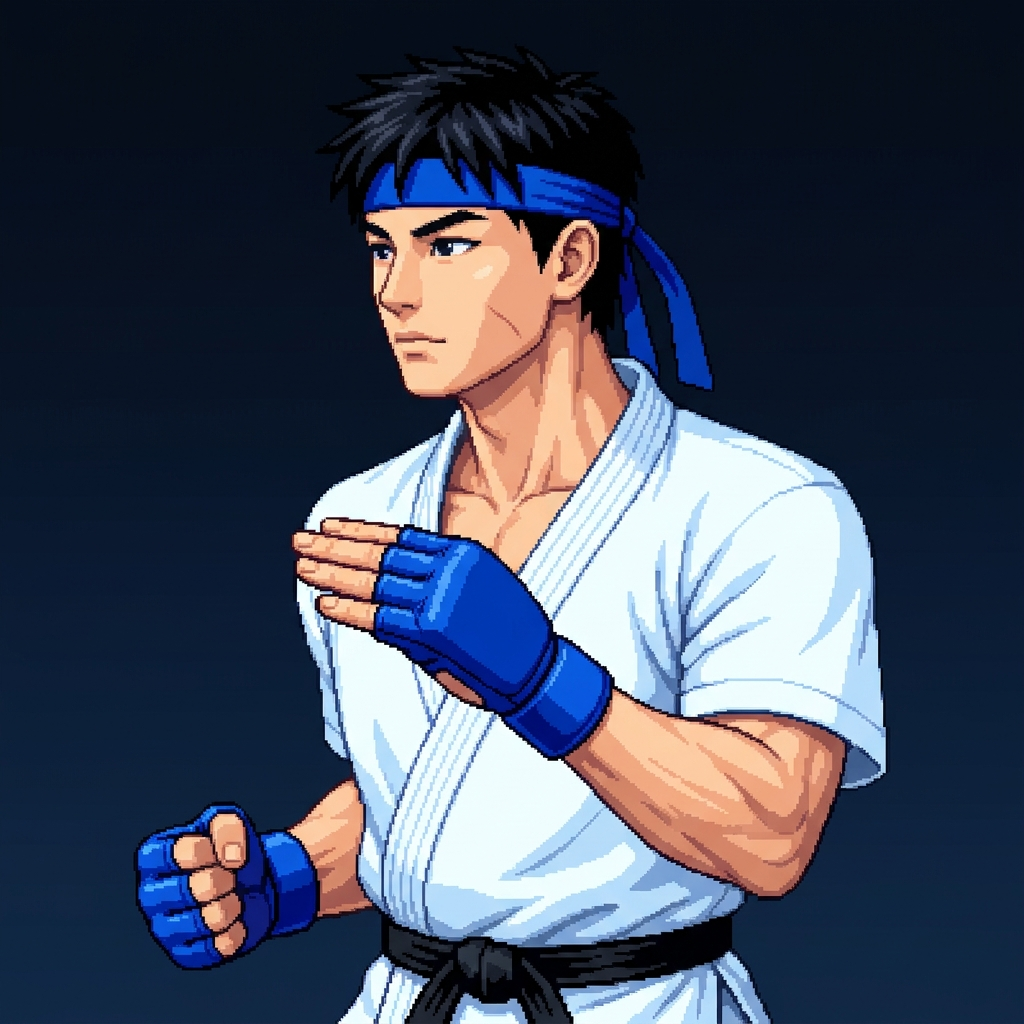
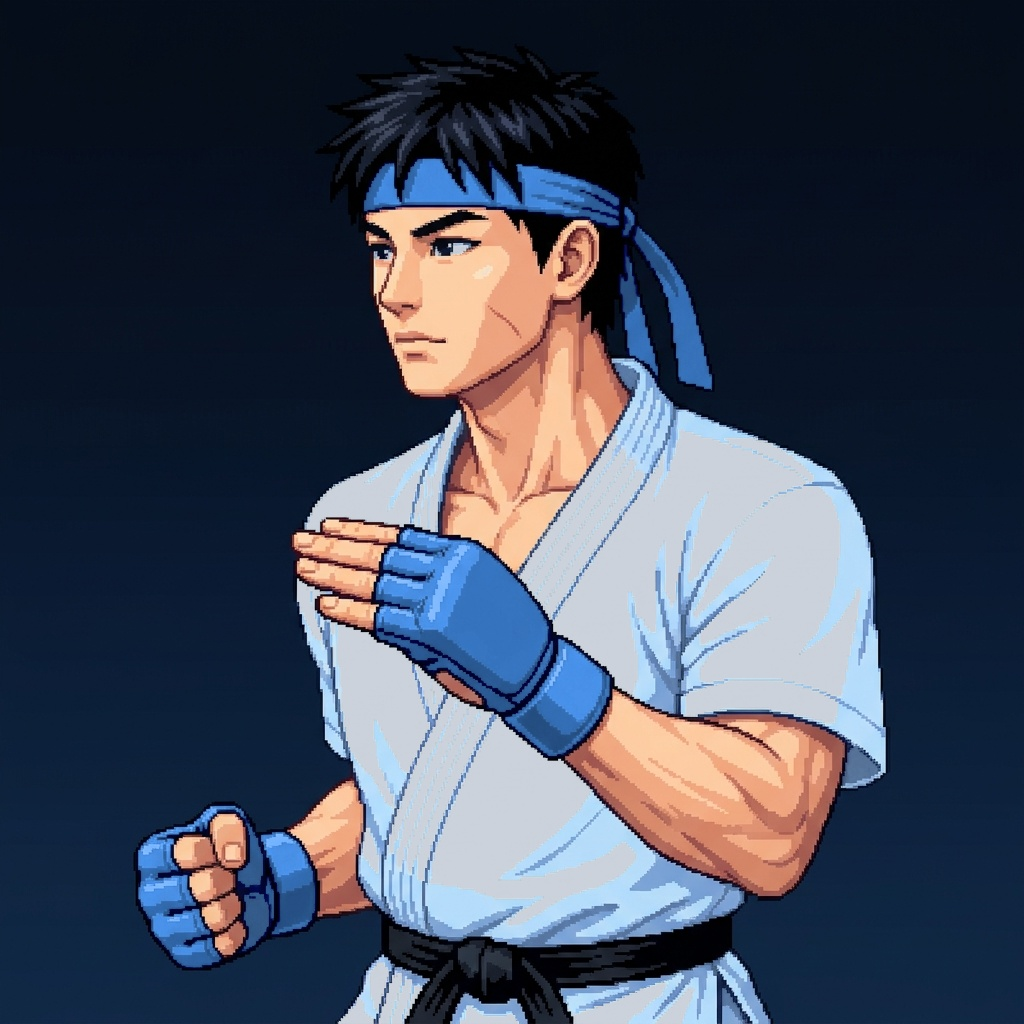
AKA : portrait de Kenji aligné sur la planche (kimono gris clair, bleu moyen)
Claude-Session: https://claude.ai/code/session_01EQeUA4S9W1Ly56y2xq16Yo

diff --git a/aka/tools/recolor_portrait_kenji.py b/aka/tools/recolor_portrait_kenji.py
@@ -1,0 +1,52 @@
+#!/usr/bin/env python3
+"""
+ recolor_portrait_kenji.py — Aligne le portrait de Kenji sur la planche : kimono gris clair,
+ bandeau et gants bleu moyen. Usage : python3 tools/recolor_portrait_kenji.py [entree.jpg] [sortie.jpg]
+ Masques doux (pas de halo sur les contours) ; peau, cheveux, ceinture et fond inchanges.
+"""
+import sys
+import numpy as np
+from PIL import Image
+
+src = sys.argv[1] if len(sys.argv) > 1 else 'assets_src/portraits/kenji.jpg'
+dst = sys.argv[2] if len(sys.argv) > 2 else src
+im = np.array(Image.open(src).convert('RGB')).astype(np.float64) / 255.0
+r, g, b = im[..., 0], im[..., 1], im[..., 2]
+mx, mn = im.max(2), im.min(2)
+d = mx - mn
+s = np.where(mx > 0, d / np.maximum(mx, 1e-6), 0.0)
+h = np.zeros_like(mx)
+m = d > 1e-6
+rm = m & (mx == r); gm = m & (mx == g) & ~rm; bm = m & ~rm & ~gm
+h[rm] = ((g - b)[rm] / d[rm]) % 6; h[gm] = (b - r)[gm] / d[gm] + 2; h[bm] = (r - g)[bm] / d[bm] + 4
+h = (h * 60.0) % 360.0
+
+def ramp(x, a, b_):            # 0 sous a, 1 au-dessus de b_ (lisse)
+    t = np.clip((x - a) / (b_ - a), 0, 1)
+    return t * t * (3 - 2 * t)
+
+# Kimono : peu sature et clair (le fond bleu nuit est sombre -> exclu par la luminosite)
+w_white = (1 - ramp(s, 0.10, 0.26)) * ramp(mx, 0.45, 0.60)
+# Bleu sature du bandeau/gants (teinte 200-260) -> bleu moyen, un peu moins sature
+w_blue = ramp(s, 0.45, 0.60) * ramp(mx, 0.30, 0.42) * (1 - ramp(abs(h - 228), 32, 48))
+
+def hsv2rgb(hh, ss, vv):
+    i = np.floor(hh * 6.0).astype(int) % 6
+    f = hh * 6.0 - np.floor(hh * 6.0)
+    p = vv * (1 - ss); q = vv * (1 - f * ss); t = vv * (1 - (1 - f) * ss)
+    out = np.zeros(hh.shape + (3,))
+    for k, (rr, gg, bb) in enumerate(((vv, t, p), (q, vv, p), (p, vv, t), (p, q, vv), (t, p, vv), (vv, p, q))):
+        sel = i == k
+        out[sel, 0] = rr[sel]; out[sel, 1] = gg[sel]; out[sel, 2] = bb[sel]
+    return out
+
+# gris clair legerement froid : valeur [0.45..1] -> [0.50..0.86]
+vg = 0.50 + (np.clip(mx, 0.45, 1.0) - 0.45) * (0.86 - 0.50) / 0.55
+grey = hsv2rgb(np.full(mx.shape, 215 / 360), np.full(mx.shape, 0.07), vg)
+# bleu moyen (#3B82CE ~ teinte 213) : saturation reduite, luminosite relevee
+mb = hsv2rgb(np.full(mx.shape, 213 / 360), np.clip(s * 0.72, 0, 1), np.clip(mx * 0.95 + 0.08, 0, 1))
+
+res = im * (1 - w_white[..., None]) + grey * w_white[..., None]
+res = res * (1 - w_blue[..., None]) + mb * w_blue[..., None]
+Image.fromarray((np.clip(res, 0, 1) * 255 + 0.5).astype(np.uint8)).save(dst, quality=95)
+print('ok ->', dst)
